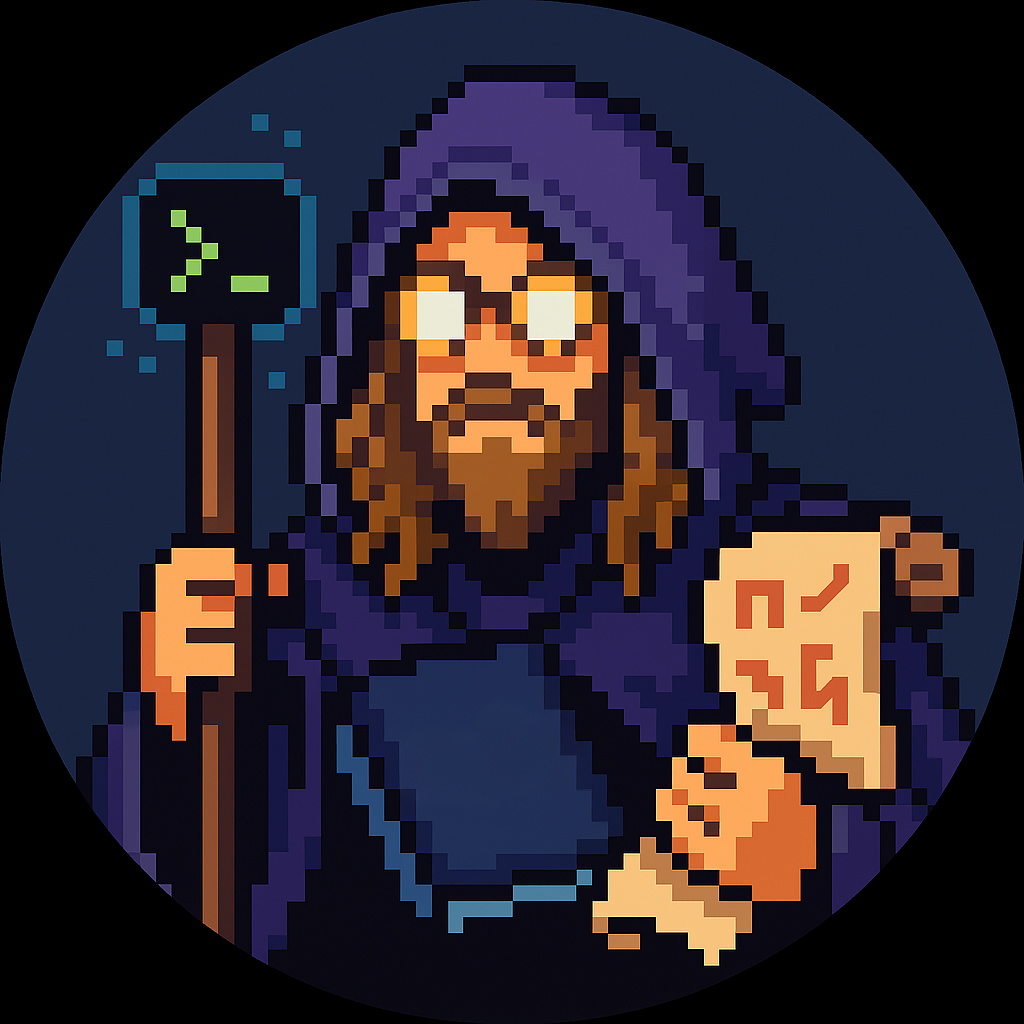
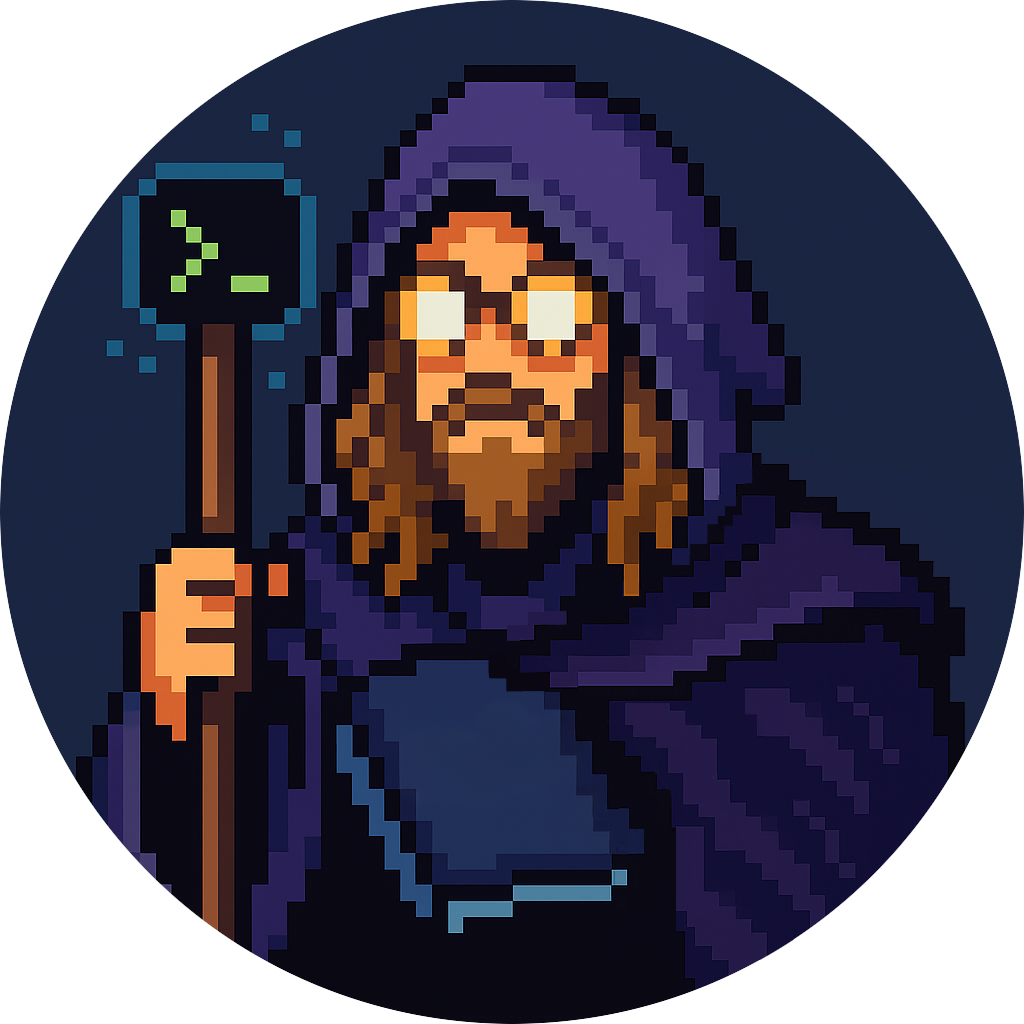
cropped dev-mage bg, display tests

diff --git a/README.md b/README.md
@@ -8,10 +8,6 @@
 
 > (wip)  
 
-<!-- <p>  
-  <img src="./assets/dev-mage.png" alt="42 Badge" width="120"/>  
-</p>   -->
-
 <div align="center">
 
 # Hello, World!
@@ -22,7 +18,7 @@ I'm Ced, a developer, maker, and digital tinkerer based in Québec.
 ---
 
 ## 🧙♂ Character Sheet
-
+<!-- 
 <details>
 <summary>Click to reveal my Dev RPG stats</summary>
 
@@ -97,7 +93,7 @@ I'm Ced, a developer, maker, and digital tinkerer based in Québec.
 
 </details>
 
----
+--- -->
 
 <details>
 <summary>Click to reveal my Dev RPG stats</summary>
@@ -106,6 +102,7 @@ I'm Ced, a developer, maker, and digital tinkerer based in Québec.
   <tr>
     <td style="vertical-align: top; padding-right: 1rem;">
       <img src="./assets/dev-mage.png" alt="Dev Mage" width="120"/>
+	  <hr>
     </td>
     <td style="vertical-align: top;">
       <table>
@@ -166,16 +163,6 @@ I'm Ced, a developer, maker, and digital tinkerer based in Québec.
 	  Easily startled by audio crits; Proximity debuff active
 	</td>
   </tr>
-    <tr>
-	<td style="padding-right: 0.5rem; vertical-align: top;"><strong>Achievements</strong>:</td>
-	<td>
-	 <div style="margin-top: 0.5rem;">
-      <a href="https://www.credly.com/badges/dce5ba28-a041-4f79-bad6-19be6ea74746/public_url">
-        <img src="./assets/42-cursus-junior-developer-level-9.png" alt="42 Cursus Junior Developer Badge" width="100"/>
-      </a>
-	</td>
-  </td>
-</div>
 </table>
 <p><strong>Achievements</strong>:</p>
 <div style="margin-top: 0.5rem;">
